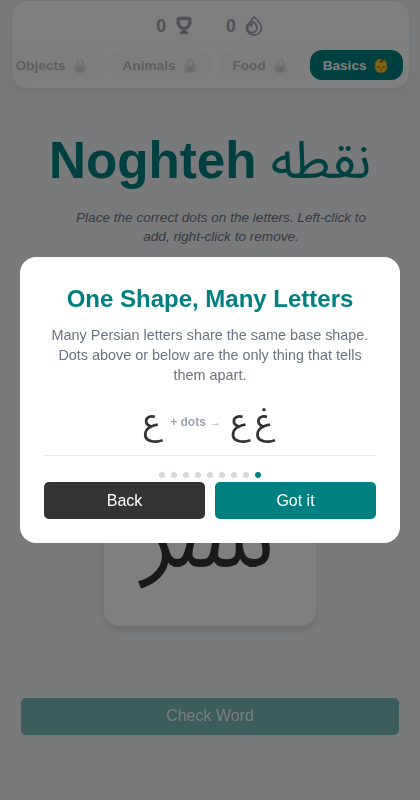
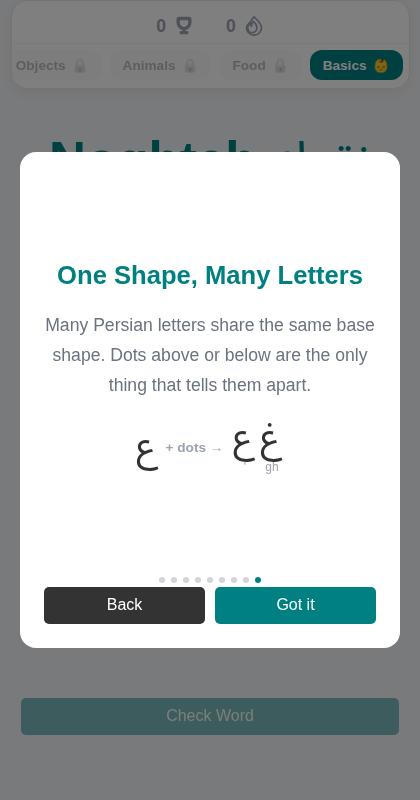
feat: show each letter's latin sound in the family guide
Adds a small latin-sound label under each letter in the family slides
(e.g. "b" under ب, "p" under پ), reusing the existing per-letter sound
data in vowelSlots.js (new primaryLatinSound export) instead of
hand-authoring a separate list. The dotless base shape shown next to
the arrow has no sound of its own, so it's left unlabeled.

diff --git a/src/vowelSlots.test.js b/src/vowelSlots.test.js
@@ -1,6 +1,7 @@
 import { describe, it, expect } from 'vitest';
-import { alignVowels } from './vowelSlots';
+import { alignVowels, primaryLatinSound } from './vowelSlots';
 import { WORDS } from './wordList';
+import { LETTERS } from './letterShaping';
 
 describe('alignVowels', () => {
   it('places unwritten short vowels after the letter they follow', () => {
@@ -39,5 +40,20 @@ describe('alignVowels', () => {
       expect(r.ambiguous, `${w.persian} "${w.transliteration}"`).toBe(false);
       expect(r.letters.length).toBe([...w.persian].length);
     });
+  });
+});
+
+describe('primaryLatinSound', () => {
+  it('gives a non-empty latin sound for every letter', () => {
+    Object.keys(LETTERS).forEach((ch) => {
+      expect(primaryLatinSound(ch)).toBeTruthy();
+    });
+  });
+
+  it('matches the sound used in example transliterations', () => {
+    expect(primaryLatinSound('ب')).toBe('b');
+    expect(primaryLatinSound('پ')).toBe('p');
+    expect(primaryLatinSound('ت')).toBe('t');
+    expect(primaryLatinSound('ث')).toBe('s');
   });
 });

diff --git a/src/components/DotFamilyIntro.jsx b/src/components/DotFamilyIntro.jsx
@@ -1,11 +1,13 @@
 import { useState } from 'react';
 import { buildFamilies } from '../letterFamilies';
+import { primaryLatinSound } from '../vowelSlots';
 
 // Each letter here is a real Persian character, so its glyph already
 // includes its own dots; just render the text, no dot overlay on top.
-const LetterPreview = ({ char }) => (
+const LetterPreview = ({ char, sound }) => (
   <div className="letter-preview">
     <div className="preview-char">{char}</div>
+    {sound && <div className="preview-sound">{sound}</div>}
   </div>
 );
 
@@ -35,7 +37,7 @@ const FamilySlide = ({ family }) => (
       </div>
       <div className="family-letters">
         {family.letters.map((ch) => (
-          <LetterPreview key={ch} char={ch} />
+          <LetterPreview key={ch} char={ch} sound={primaryLatinSound(ch)} />
         ))}
       </div>
     </div>

diff --git a/src/components/DotFamilyIntro.test.jsx b/src/components/DotFamilyIntro.test.jsx
@@ -83,6 +83,17 @@ describe('DotFamilyIntro', () => {
     expect(container.querySelectorAll('.dot, .cluster, .dot-cluster').length).toBe(0);
   });
 
+  it('shows the latin sound under each family letter, but not under the base shape', () => {
+    const { container } = render(<DotFamilyIntro onClose={() => {}} />);
+    fireEvent.click(screen.getByText('Next'));
+
+    const sounds = Array.from(
+      container.querySelectorAll('.family-letters .preview-sound'),
+    ).map((el) => el.textContent);
+    expect(sounds).toEqual(['b', 'p', 't', 's']);
+    expect(container.querySelector('.family-base .preview-sound')).toBeNull();
+  });
+
   it('lets the user go back to the welcome slide', () => {
     render(<DotFamilyIntro onClose={() => {}} />);
 

diff --git a/src/vowelSlots.js b/src/vowelSlots.js
@@ -65,6 +65,10 @@ const SOUNDS = {
   ی: [...consonant('y', 'iy'), ...long('ī', 'i')],
 };
 
+// The letter's most common latin sound, for display (e.g. in the app guide).
+// Not used for alignment, which considers every sound in SOUNDS.
+export const primaryLatinSound = (ch) => SOUNDS[ch][0].latin;
+
 const optionsFor = (ch, index, next) => {
   const sounds = SOUNDS[ch];
   if (!sounds) throw new Error(`No sounds defined for "${ch}"`);

diff --git a/src/App.css b/src/App.css
@@ -491,6 +491,12 @@ button:active {
   color: #333;
 }
 
+.preview-sound {
+  font-size: 0.75rem;
+  color: #9ca3af;
+  direction: ltr;
+}
+
 .family-intro-progress {
   display: flex;
   justify-content: center;
